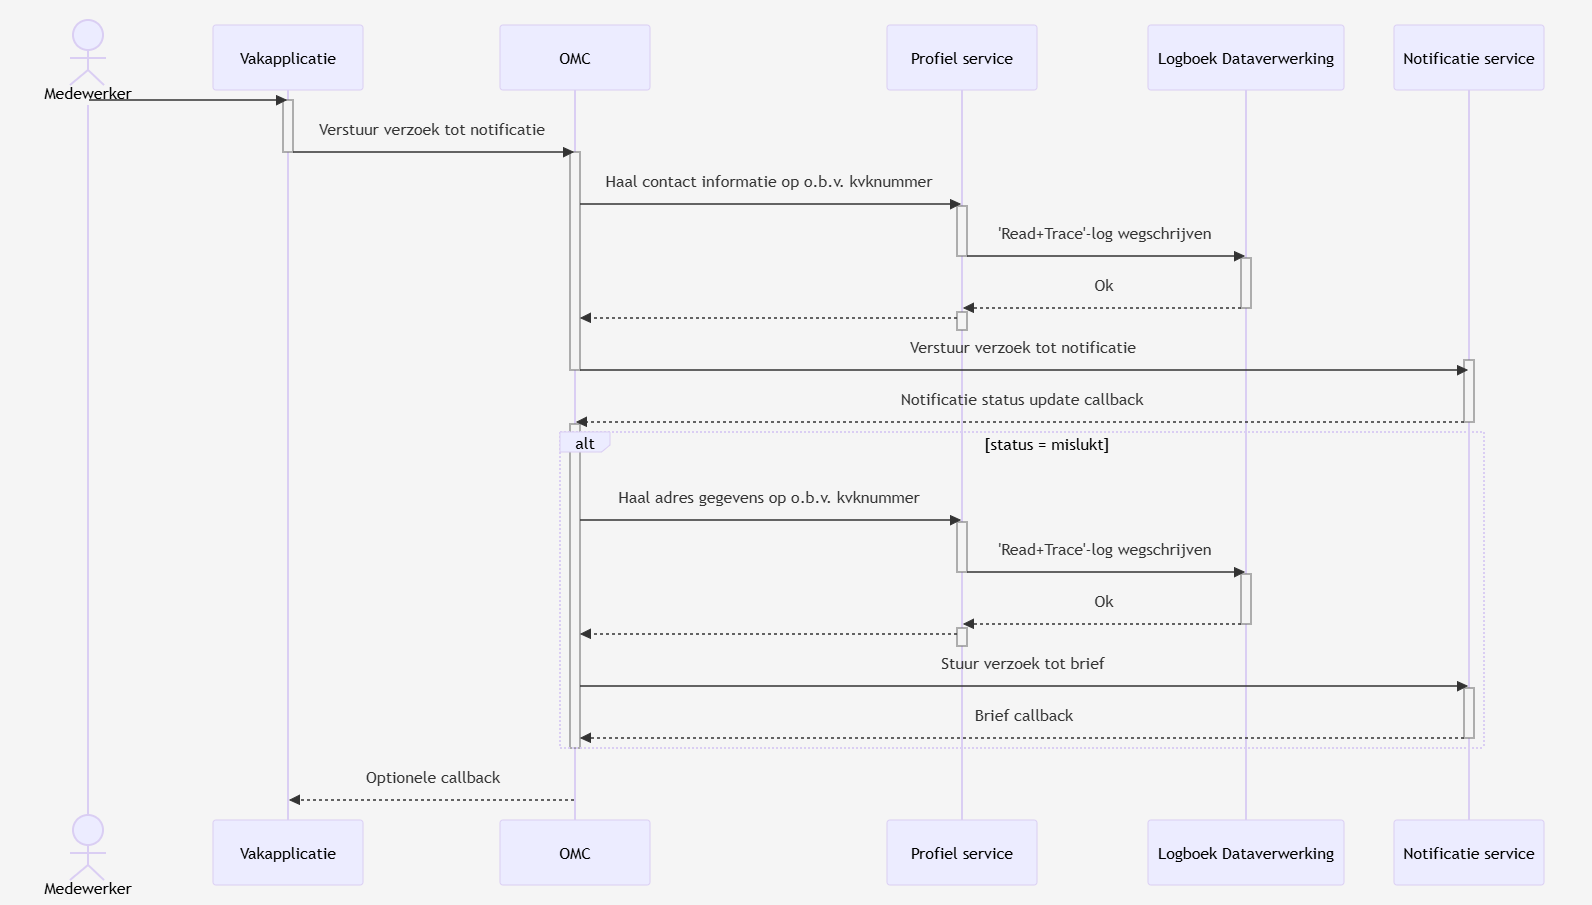
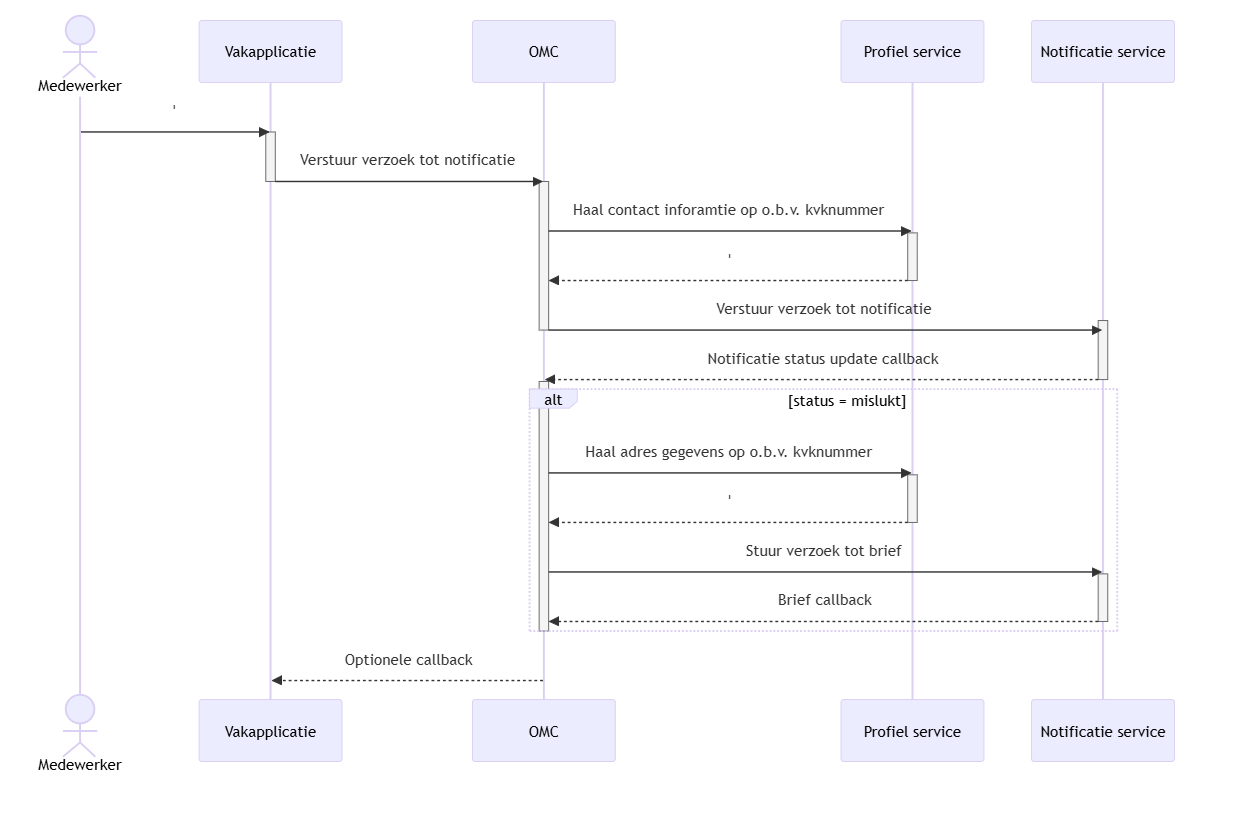
Plaatje zonder LDV
plaatje zonder ldv, niet notificatie relevant

diff --git a/Docs/structurizr/notificatiedocs/02-functioneel-overzicht.md b/Docs/structurizr/notificatiedocs/02-functioneel-overzicht.md
@@ -76,31 +76,31 @@ Scenario 9 staat hier nog niet, maar is idem aan scenario 8, met de toevoeging v
     mermaid
     sequenceDiagram
         actor Medewerker
-        Medewerker->>Vakapplicatie:
+        Medewerker->>Vakapplicatie:'
         activate Vakapplicatie
         Vakapplicatie->>OMC:Verstuur verzoek tot notificatie
         deactivate Vakapplicatie
         activate OMC
         OMC->>Profiel service:Haal contact inforamtie op o.b.v. kvknummer
         activate Profiel service
-        Profiel service-->>OMC:
+        Profiel service-->>OMC:'
         deactivate Profiel service
         OMC->>Notificatie service:Verstuur verzoek tot notificatie
         activate Notificatie service
         deactivate OMC
-
+        
         Notificatie service-->>OMC:Notificatie status update callback
         deactivate Notificatie service
         activate OMC
         alt status = mislukt
-            OMC->>Profiel service:Haal adres gegevens op o.b.v. kvknummer
-            activate Profiel service
-            Profiel service-->>OMC:
-            deactivate Profiel service
-            OMC->>Notificatie service:Stuur verzoek tot brief
-            activate Notificatie service
-            Notificatie service-->>OMC:Brief callback
-            deactivate Notificatie service
+        OMC->>Profiel service:Haal adres gegevens op o.b.v. kvknummer
+        activate Profiel service
+        Profiel service-->>OMC:'
+        deactivate Profiel service
+        OMC->>Notificatie service:Stuur verzoek tot brief
+        activate Notificatie service
+        Notificatie service-->>OMC:Brief callback
+        deactivate Notificatie service
         end
         deactivate OMC
         OMC-->>Vakapplicatie:Optionele callback
